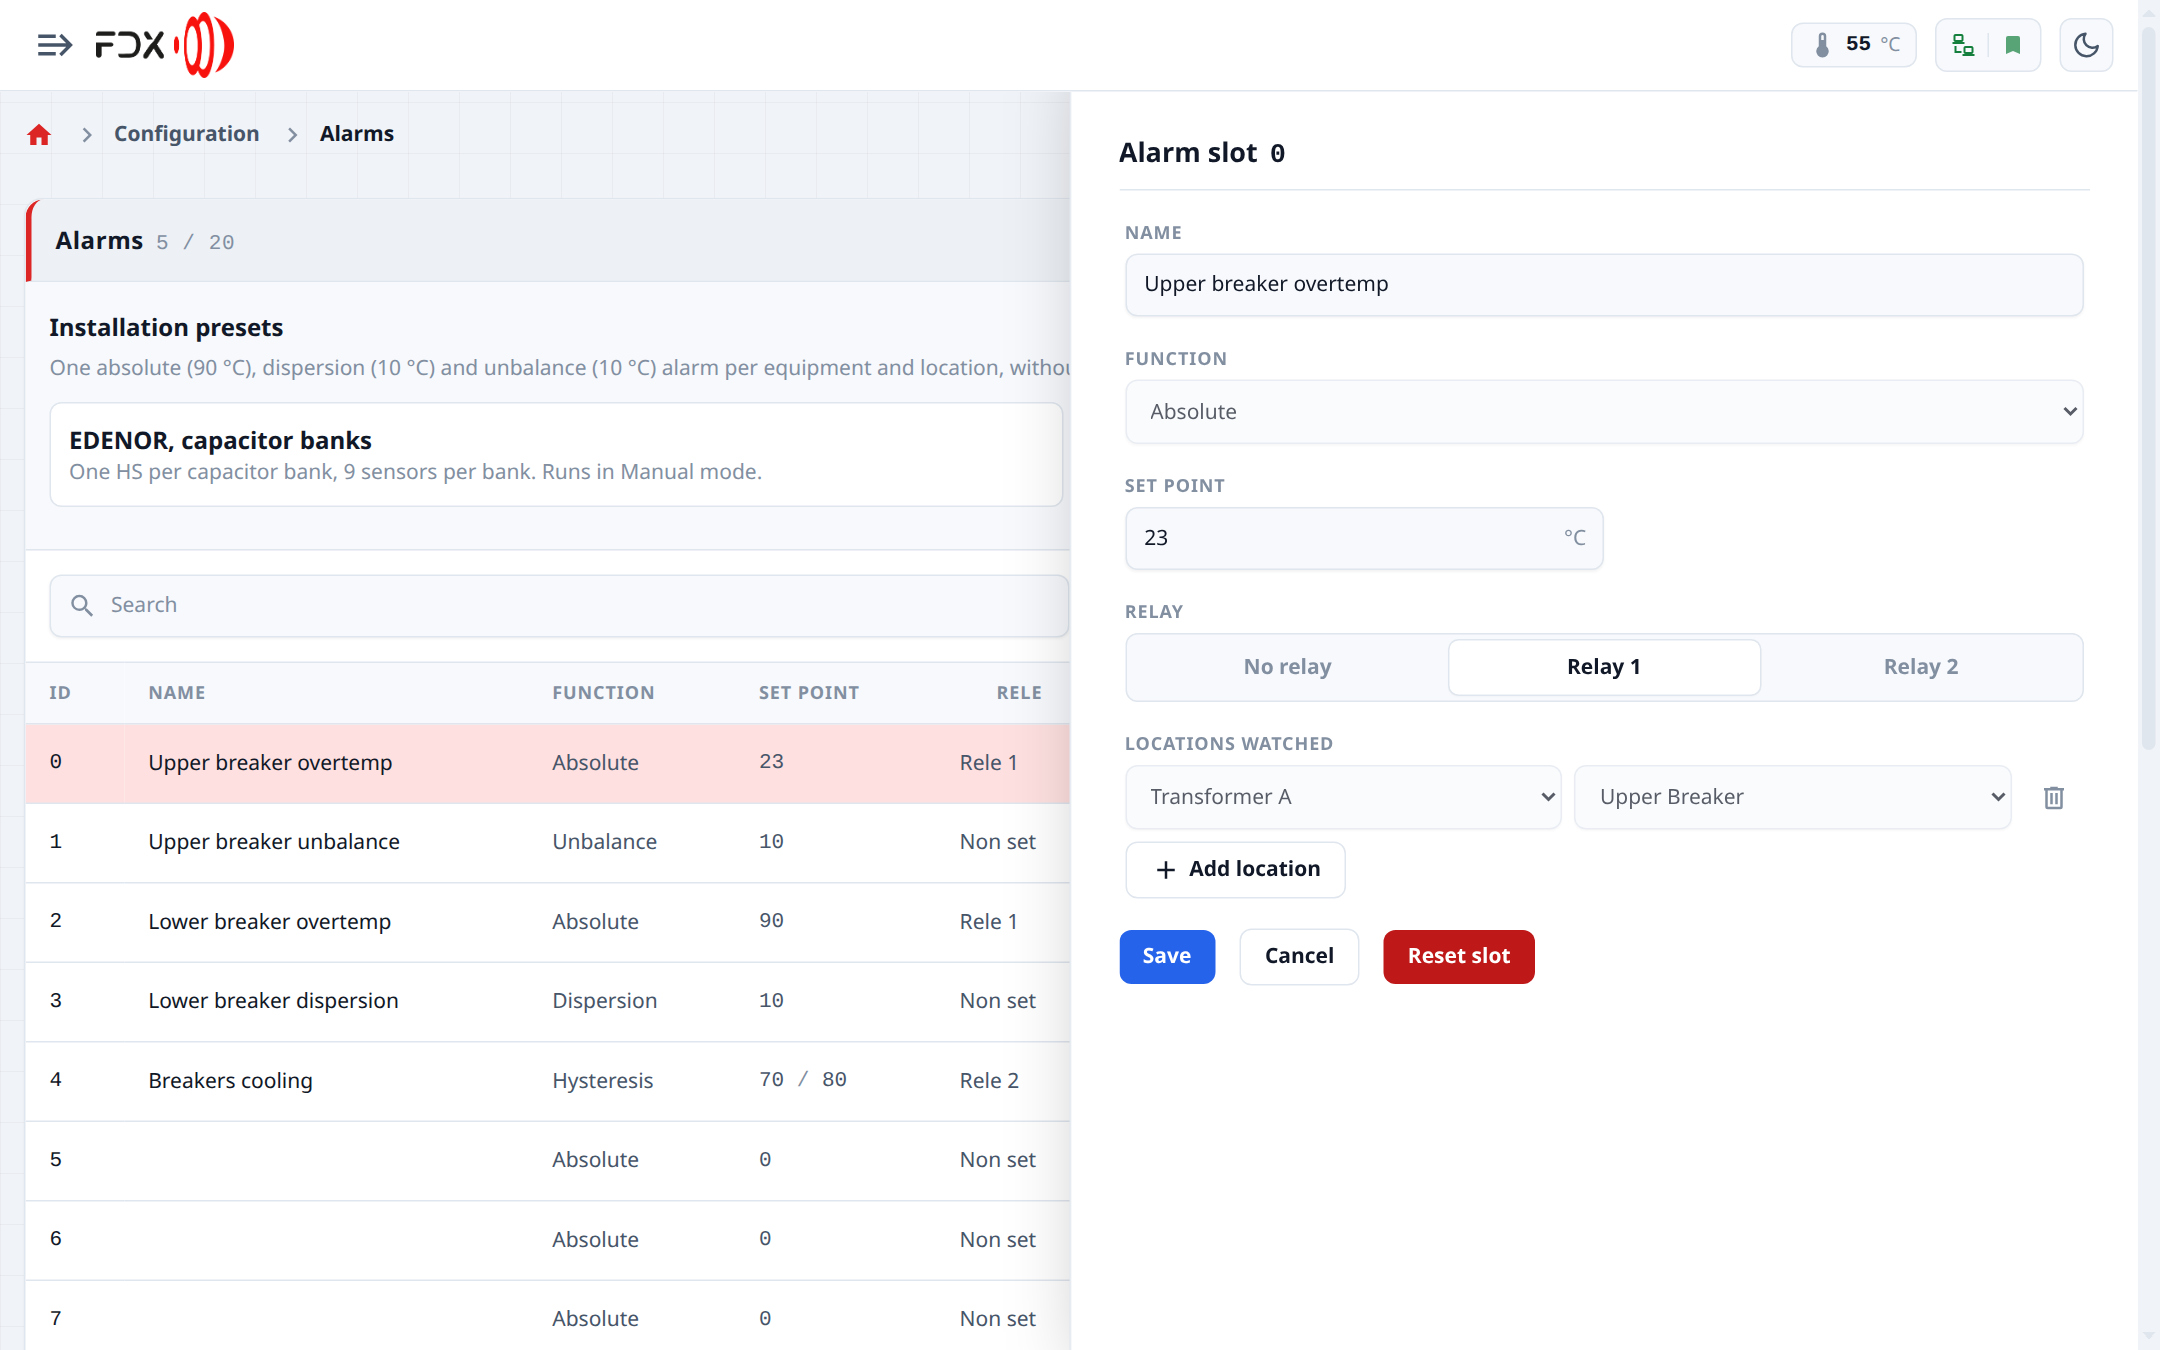
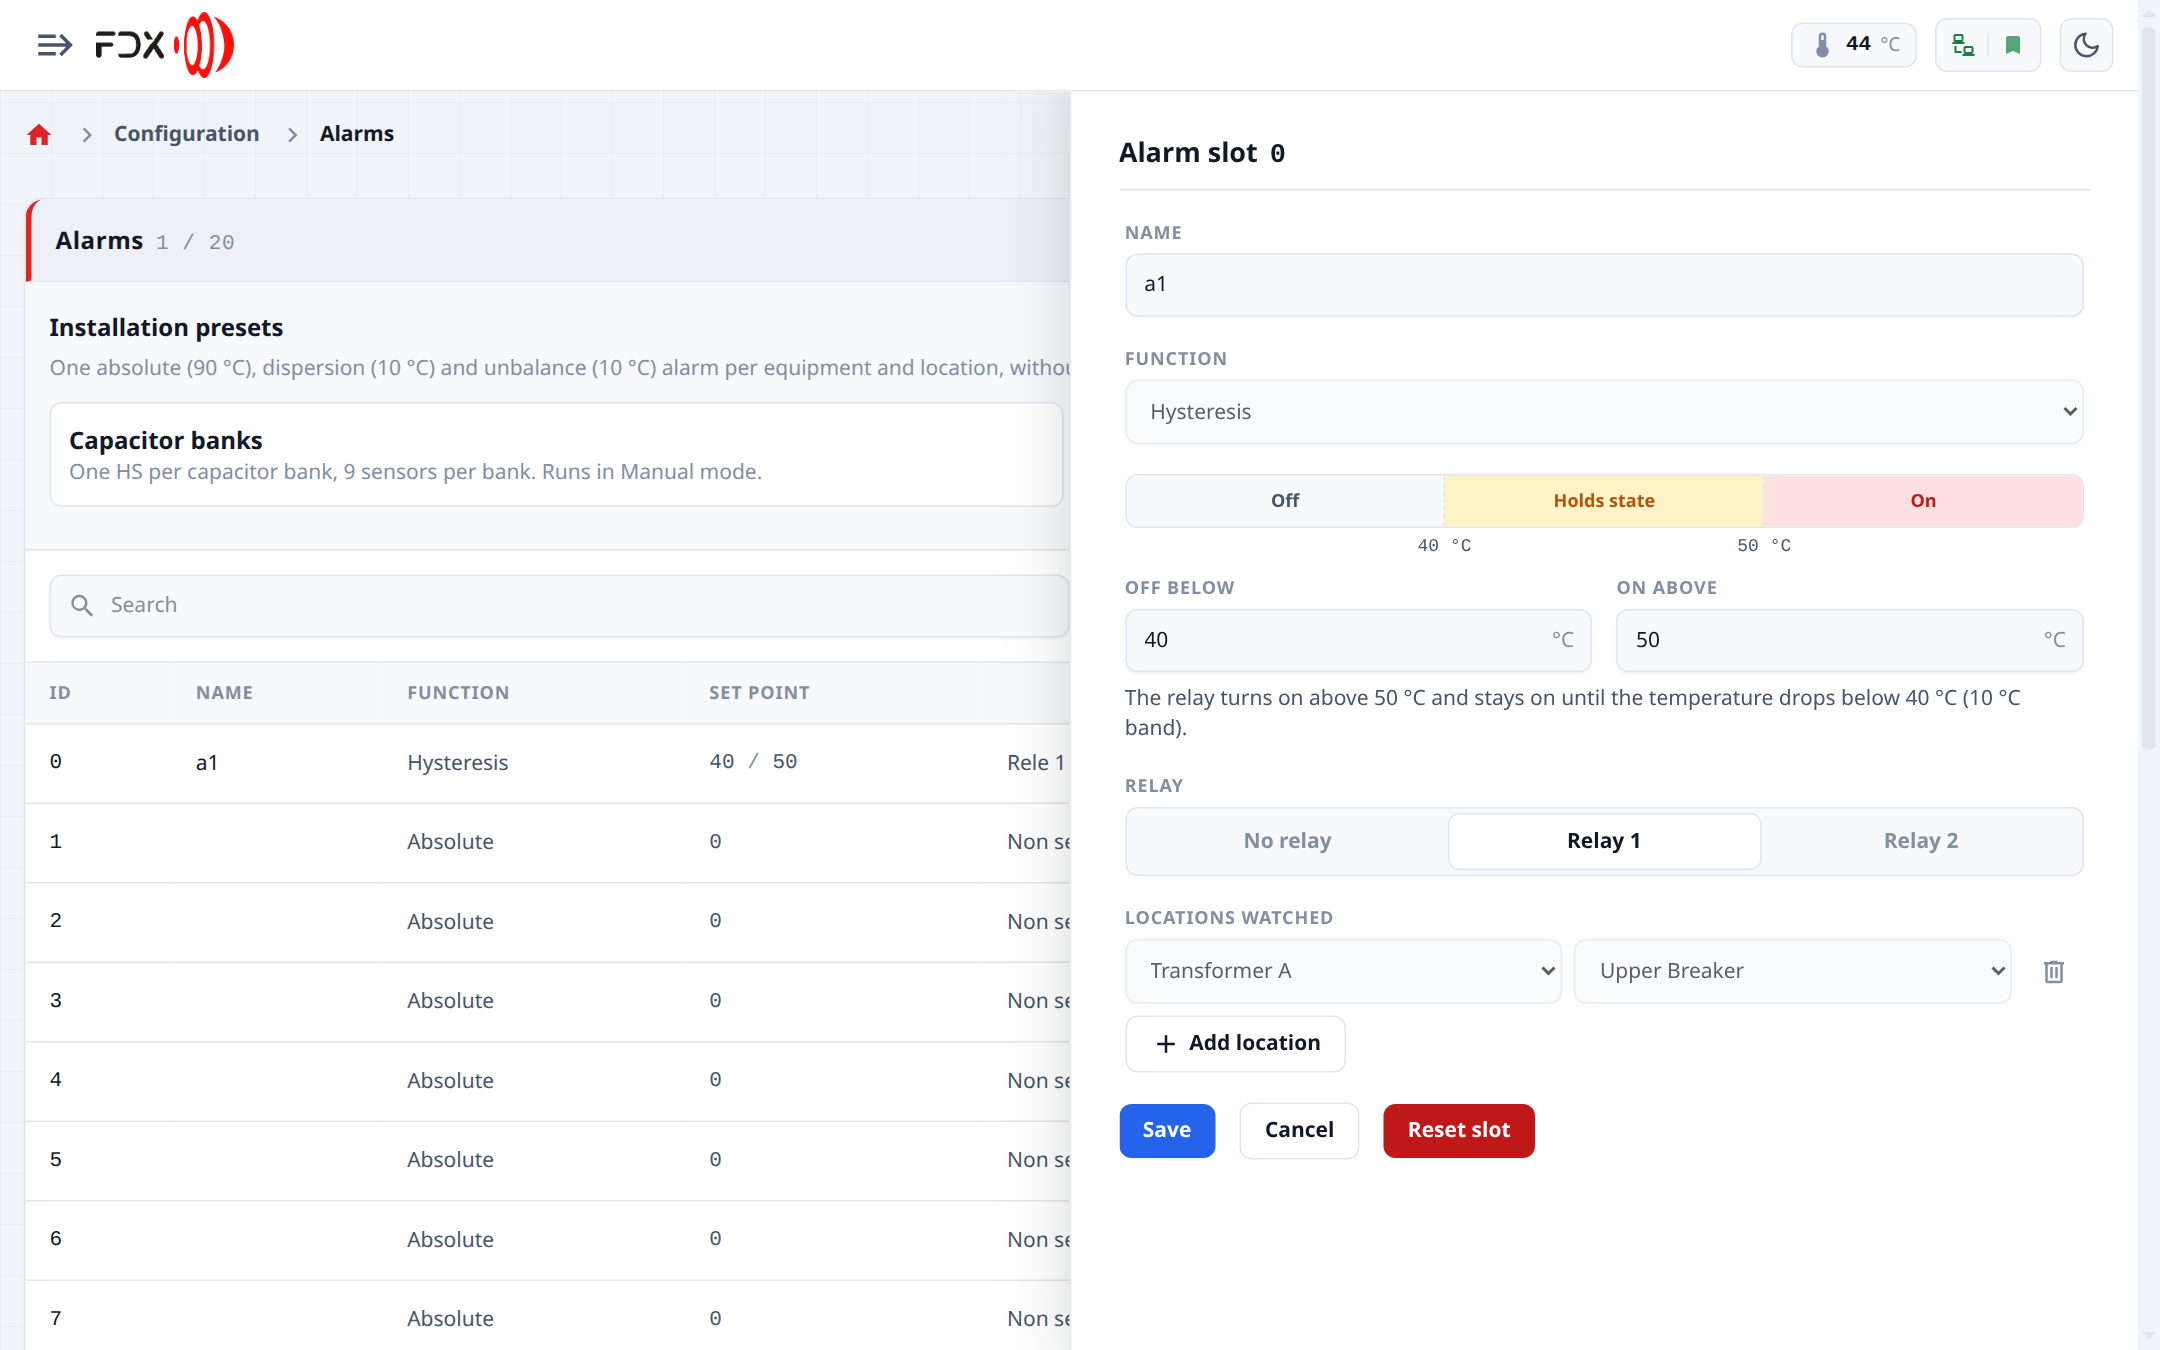
fix: generic names for the installation presets

diff --git a/src/commons/installPresets.ts b/src/commons/installPresets.ts
@@ -1,4 +1,4 @@
-// Field installation presets (EDENOR). Label names are in Spanish on purpose: the app
+// Field installation presets. Label names are in Spanish on purpose: the app
 // defaults stay in English, these only apply when an installer picks them.
 import type { ILabelData } from './interfaces'
 
@@ -25,7 +25,7 @@ const POSITIONS = ['R', 'S', 'T']
 export const PRESETS: PresetDef[] = [
   {
     key: 'bancos',
-    title: 'EDENOR, capacitor banks',
+    title: 'Capacitor banks',
     summary: 'One HS per capacitor bank, 9 sensors per bank. Runs in Manual mode.',
     labels: {
       equipment: ['Banco 1', 'Banco 2', 'Banco 3', 'Banco 4'],
@@ -35,7 +35,7 @@ export const PRESETS: PresetDef[] = [
   },
   {
     key: 'celdas',
-    title: 'EDENOR, switchgear cells',
+    title: 'Switchgear cells',
     summary: 'One HS per switchgear, one transformer per antenna. Runs in Auto (switchgear) mode.',
     labels: {
       equipment: ['Transformador A', 'Transformador B', 'Transformador C'],
